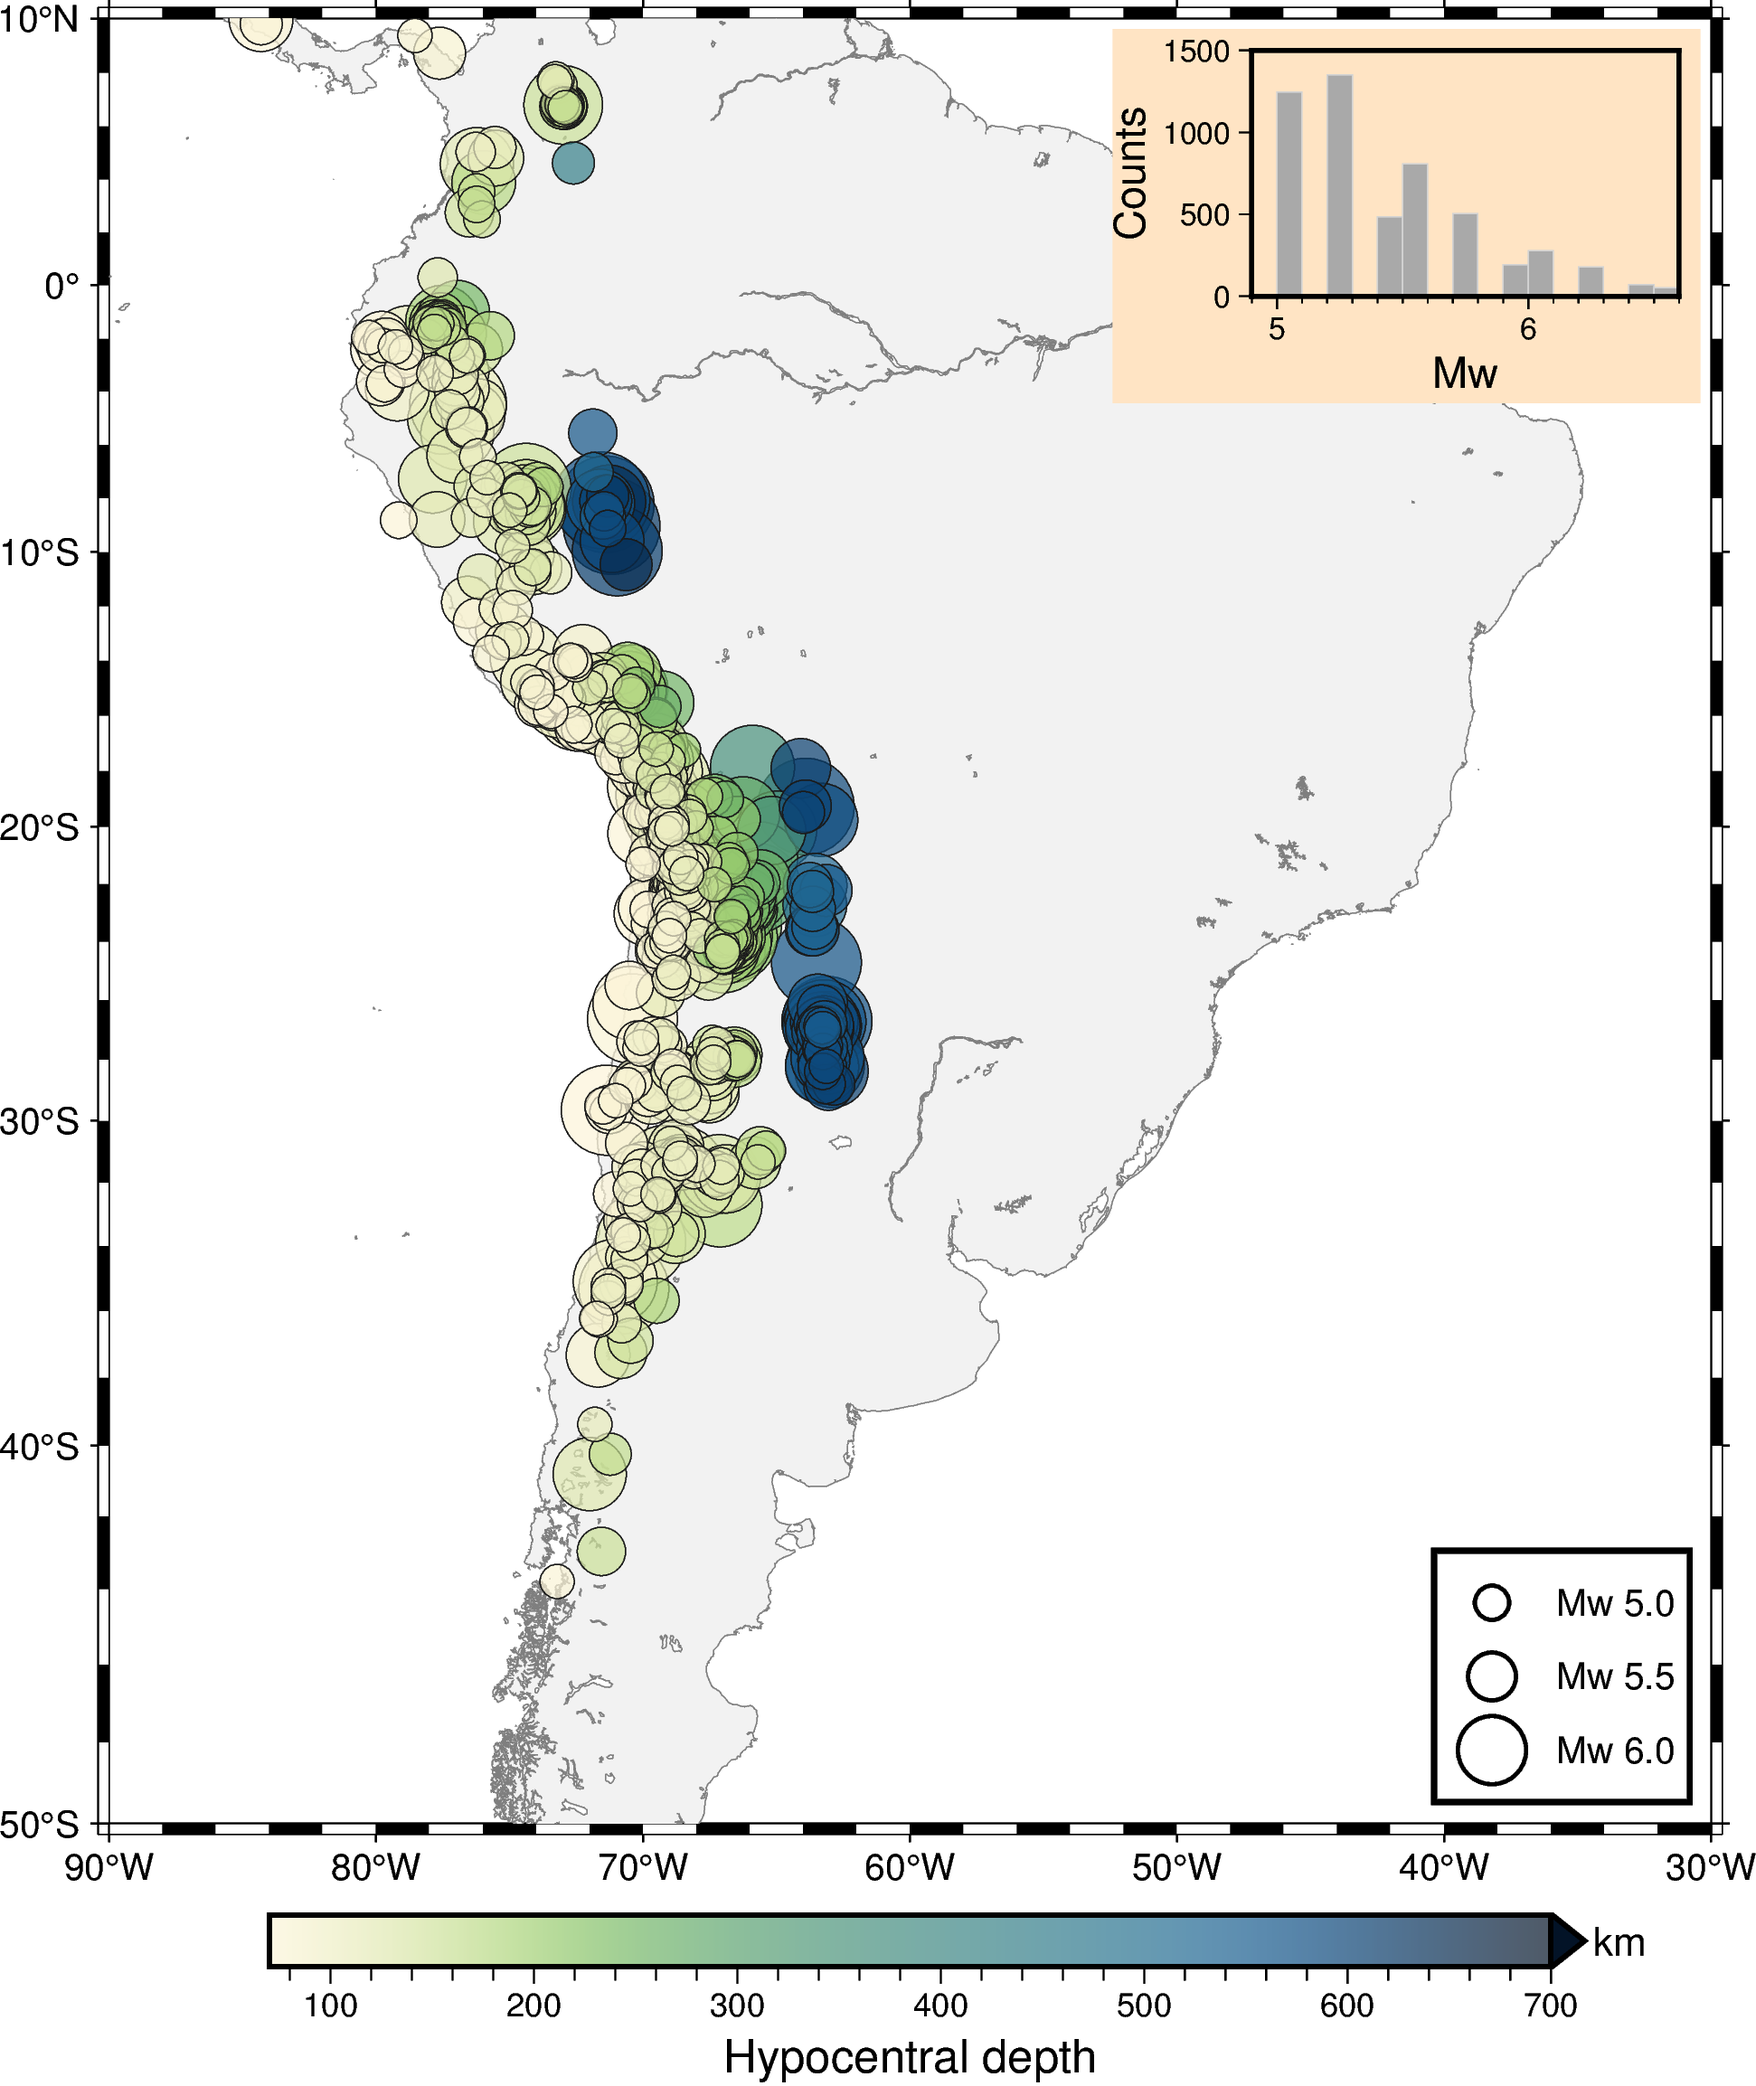
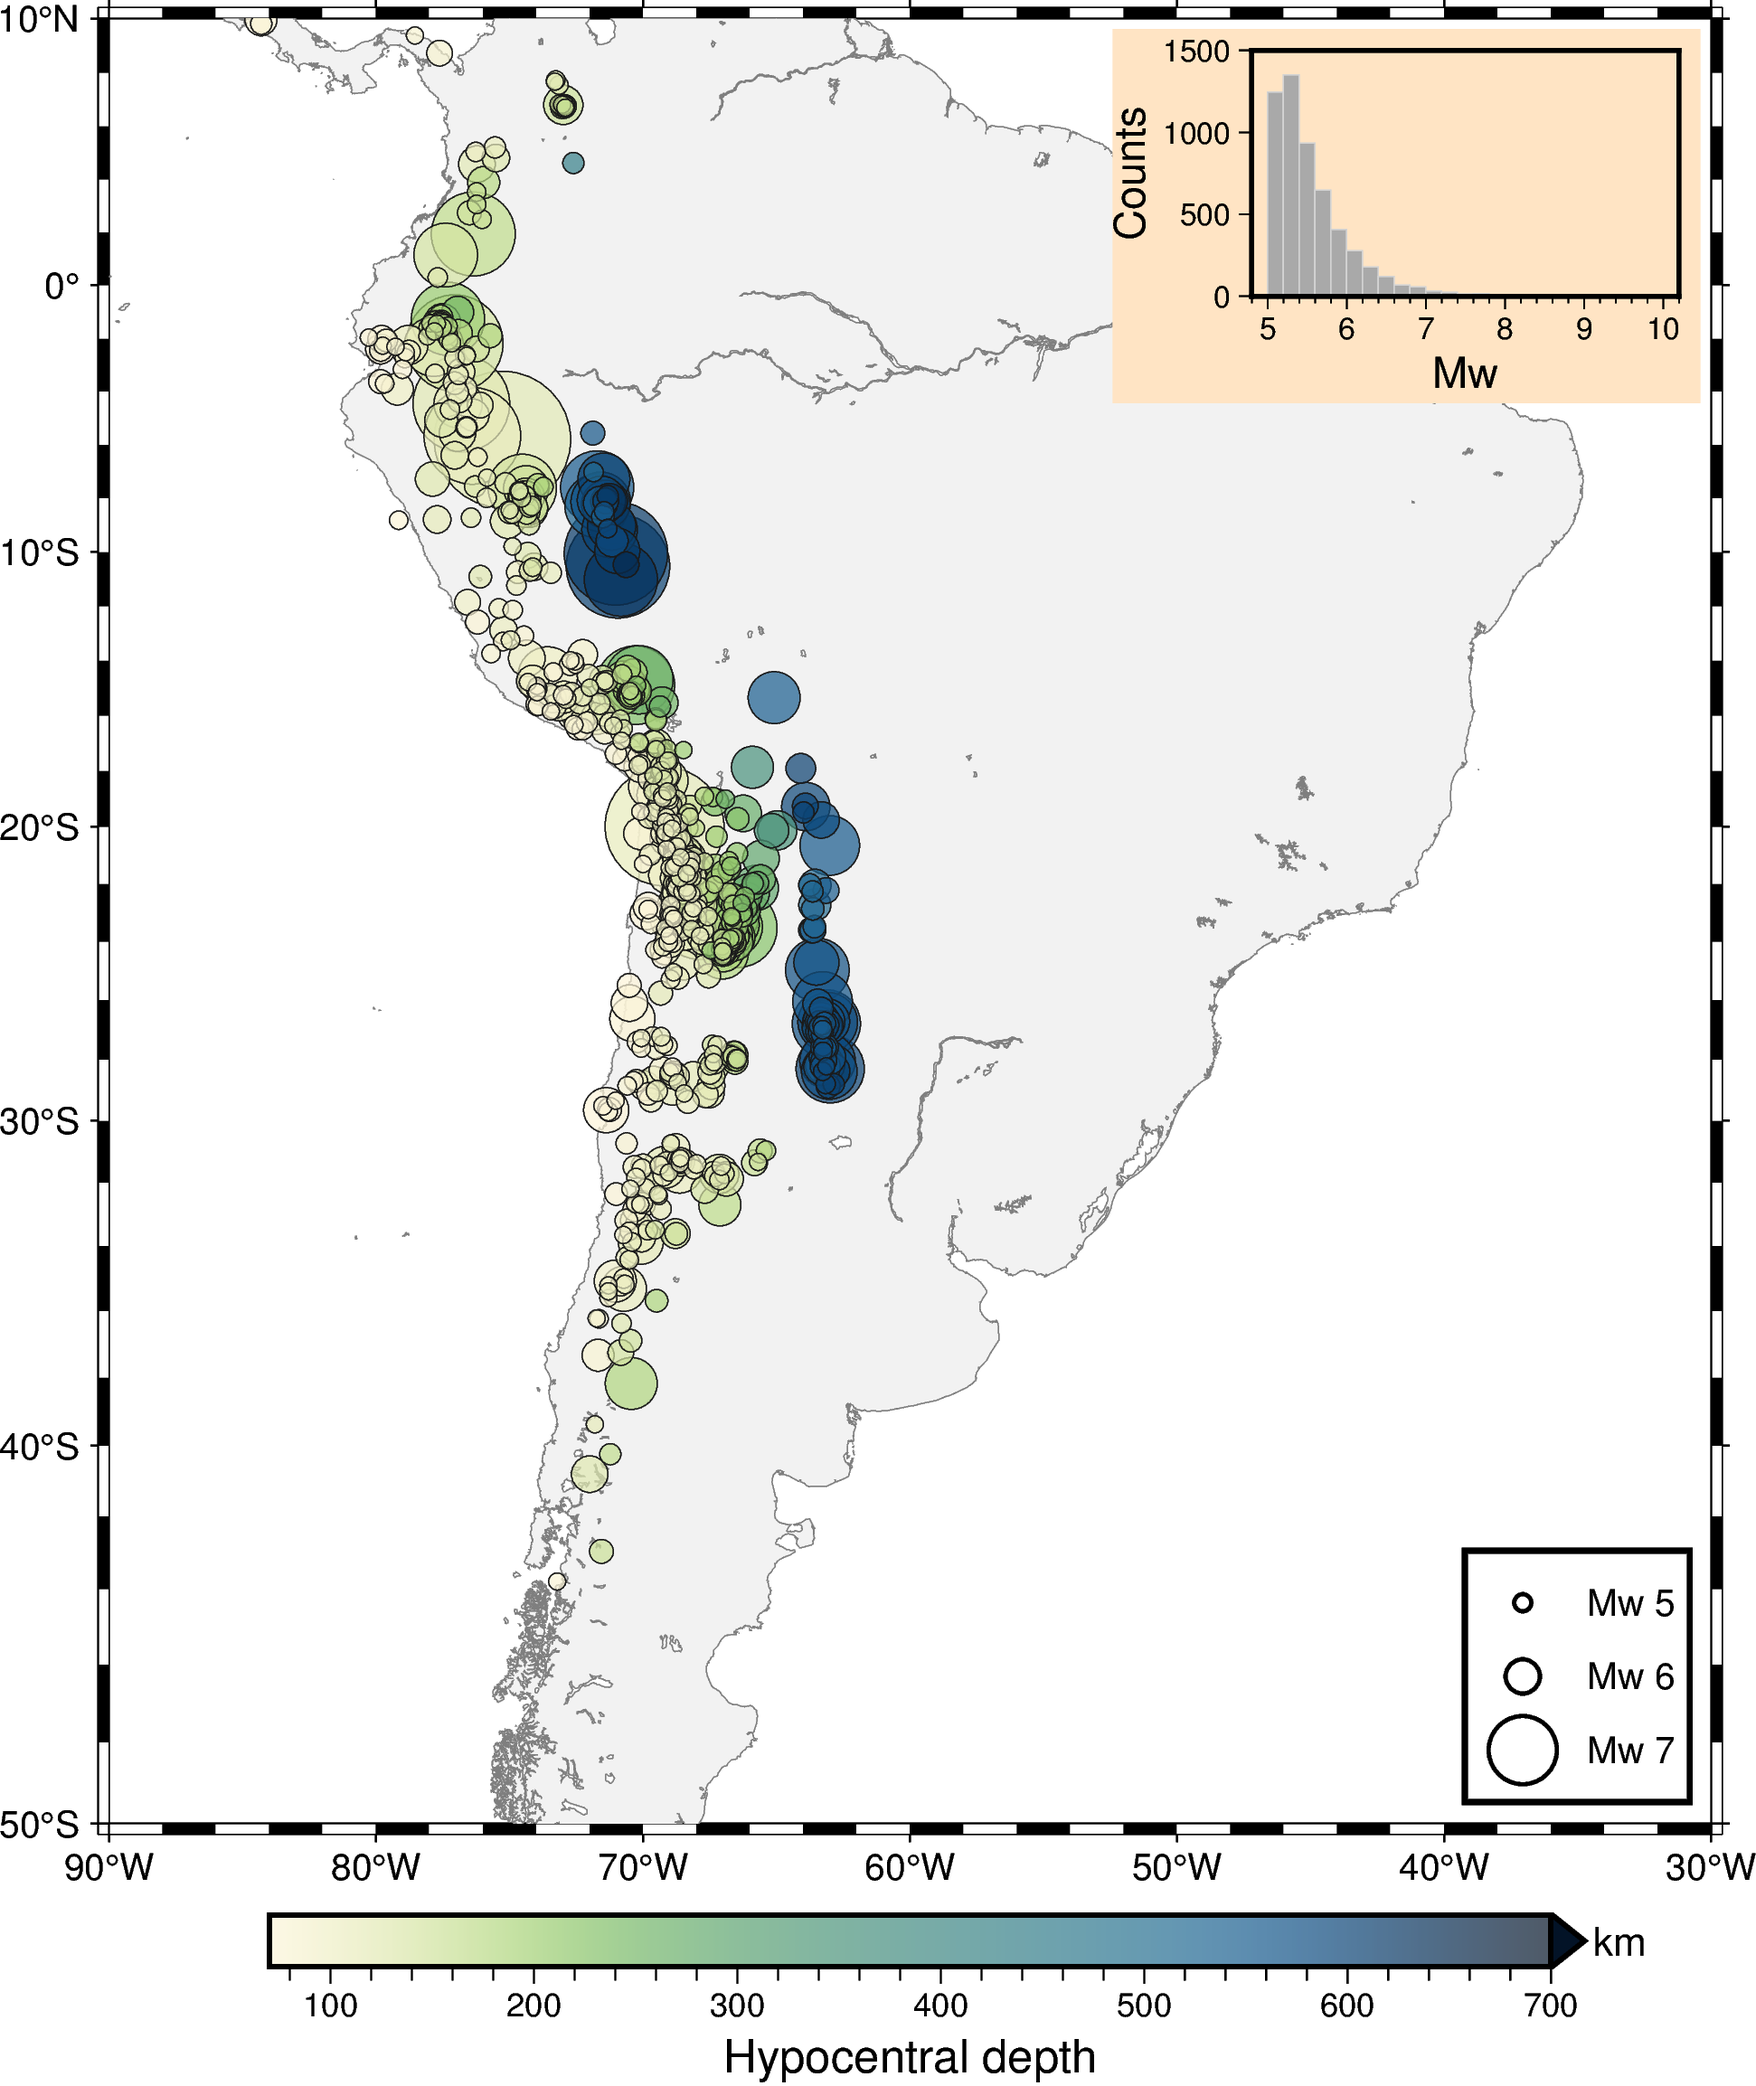
Extend magnitude range | Reduce circle size

diff --git a/Fig4_PyGMt_pandas.py b/Fig4_PyGMt_pandas.py
@@ -10,12 +10,12 @@ params = {
     "starttime": "2000-01-01",
     "endtime": "2025-10-30",
     "mindepth": 70,
-    "minlatitude": 33,
-    "maxlatitude": 53,
-    "minlongitude": 131,
-    "maxlongitude": 152,
+    "minlatitude": 30, #33,
+    "maxlatitude": 60, #53,
+    "minlongitude": 120, #131,
+    "maxlongitude": 168, #152,
     "minmagnitude": 5,
-    "maxmagnitude": 6.5,
+    # "maxmagnitude": 6.5,
     "orderby": "magnitude",
     "format": "csv",
 }
@@ -25,16 +25,16 @@ df_eqs = df_eqs[df_eqs["magType"] != "mb"]  # Focus on moment magnitudes
 
 
 fig = pygmt.Figure()
-fig.basemap(region=[131, 152, 33, 51], projection="M15c", frame=True)
+fig.basemap(region=[120, 168, 30, 60], projection="M15c", frame=True)
 fig.coast(land="gray95", shorelines="gray50")
 
 # Plot epicenters with color (hypocentral depth) or size (moment magnitude)
-pygmt.makecpt(cmap="SCM/navia", series=[70, 500], reverse=True, transparency=30)
+pygmt.makecpt(cmap="SCM/navia", series=[70, 700], reverse=True, transparency=30)
 fig.colorbar(frame=["xa100f20+lHypocentral depth", "y+lkm"], position="+ef0.3c")
 fig.plot(
     x=df_eqs.longitude,
     y=df_eqs.latitude,
-    size=0.01 * 2**df_eqs.mag,
+    size=0.005 * 2**df_eqs.mag,
     fill=df_eqs.depth,
     cmap=True,
     style="c",
@@ -43,7 +43,7 @@ fig.plot(
 
 # Add legend for size-coding
 legend = io.StringIO(
-    "\n".join(f"S 0.4 c {0.01 * 2**m:.2f} - 1p 1 Mw {m}" for m in [5.0, 5.5, 6.0])
+    "\n".join(f"S 0.4 c {0.005 * 2**m:.2f} - 1p 1 Mw {m}" for m in [5, 6, 7])
 )
 fig.legend(spec=legend, position="jBR+o0.2c+l2", box=True)
 
@@ -54,7 +54,7 @@ with fig.inset(
     box=pygmt.params.Box(fill="bisque"),
 ):
     fig.histogram(
-        region=[4.9, 6.6, 0, 0],
+        region=[4.8, 10.2, 0, 0],
         projection="X?/?",
         frame=["WSrt", "xa1f0.2+lMw", "yaf+lCounts"],
         data=df_eqs.mag,
@@ -102,7 +102,7 @@ params = {
     # "minlongitude": lon_min,
     # "maxlongitude": lon_max,
     "minmagnitude": mag_min,
-    "maxmagnitude": mag_max,
+    # "maxmagnitude": mag_max,
     "orderby": "magnitude",
 }
 r = requests.get(url, params=params)
@@ -119,7 +119,7 @@ fig.colorbar(frame=["xaf+lHypocentral depth", "y+lkm"], position="+ef0.3c")
 fig.plot(
     x=df_eqs.longitude,
     y=df_eqs.latitude,
-    size=0.01 * 2**df_eqs.mag,
+    size=0.005 * 2**df_eqs.mag,
     fill=df_eqs.depth,
     cmap=True,
     style="c",
@@ -128,7 +128,7 @@ fig.plot(
 
 # Add legend for size-coding
 legend = io.StringIO(
-    "\n".join(f"S 0.4 c {0.01 * 2**m:.2f} - 1p 1 Mw {m}" for m in [5.0, 5.5, 6.0])
+    "\n".join(f"S 0.4 c {0.005 * 2**m:.2f} - 1p 1 Mw {m}" for m in [5, 6, 7])
 )
 fig.legend(spec=legend, position="jBR+o0.2c+l2", box=True)
 
@@ -139,11 +139,11 @@ with fig.inset(
     box=pygmt.params.Box(fill="bisque"),
 ):
     fig.histogram(
-        region=[4.9, 6.6, 0, 0],
+        region=[4.8, 10.2, 0, 0],
         projection="X?/?",
-        frame=["WSrt", "xa1f0.1+lMw", "yaf+lCounts"],
+        frame=["WSrt", "xa1f0.2+lMw", "yaf+lCounts"],
         data=df_eqs.mag,
-        series=0.1,
+        series=0.2,
         fill="darkgray",
         pen="lightgray",
         histtype=0,
